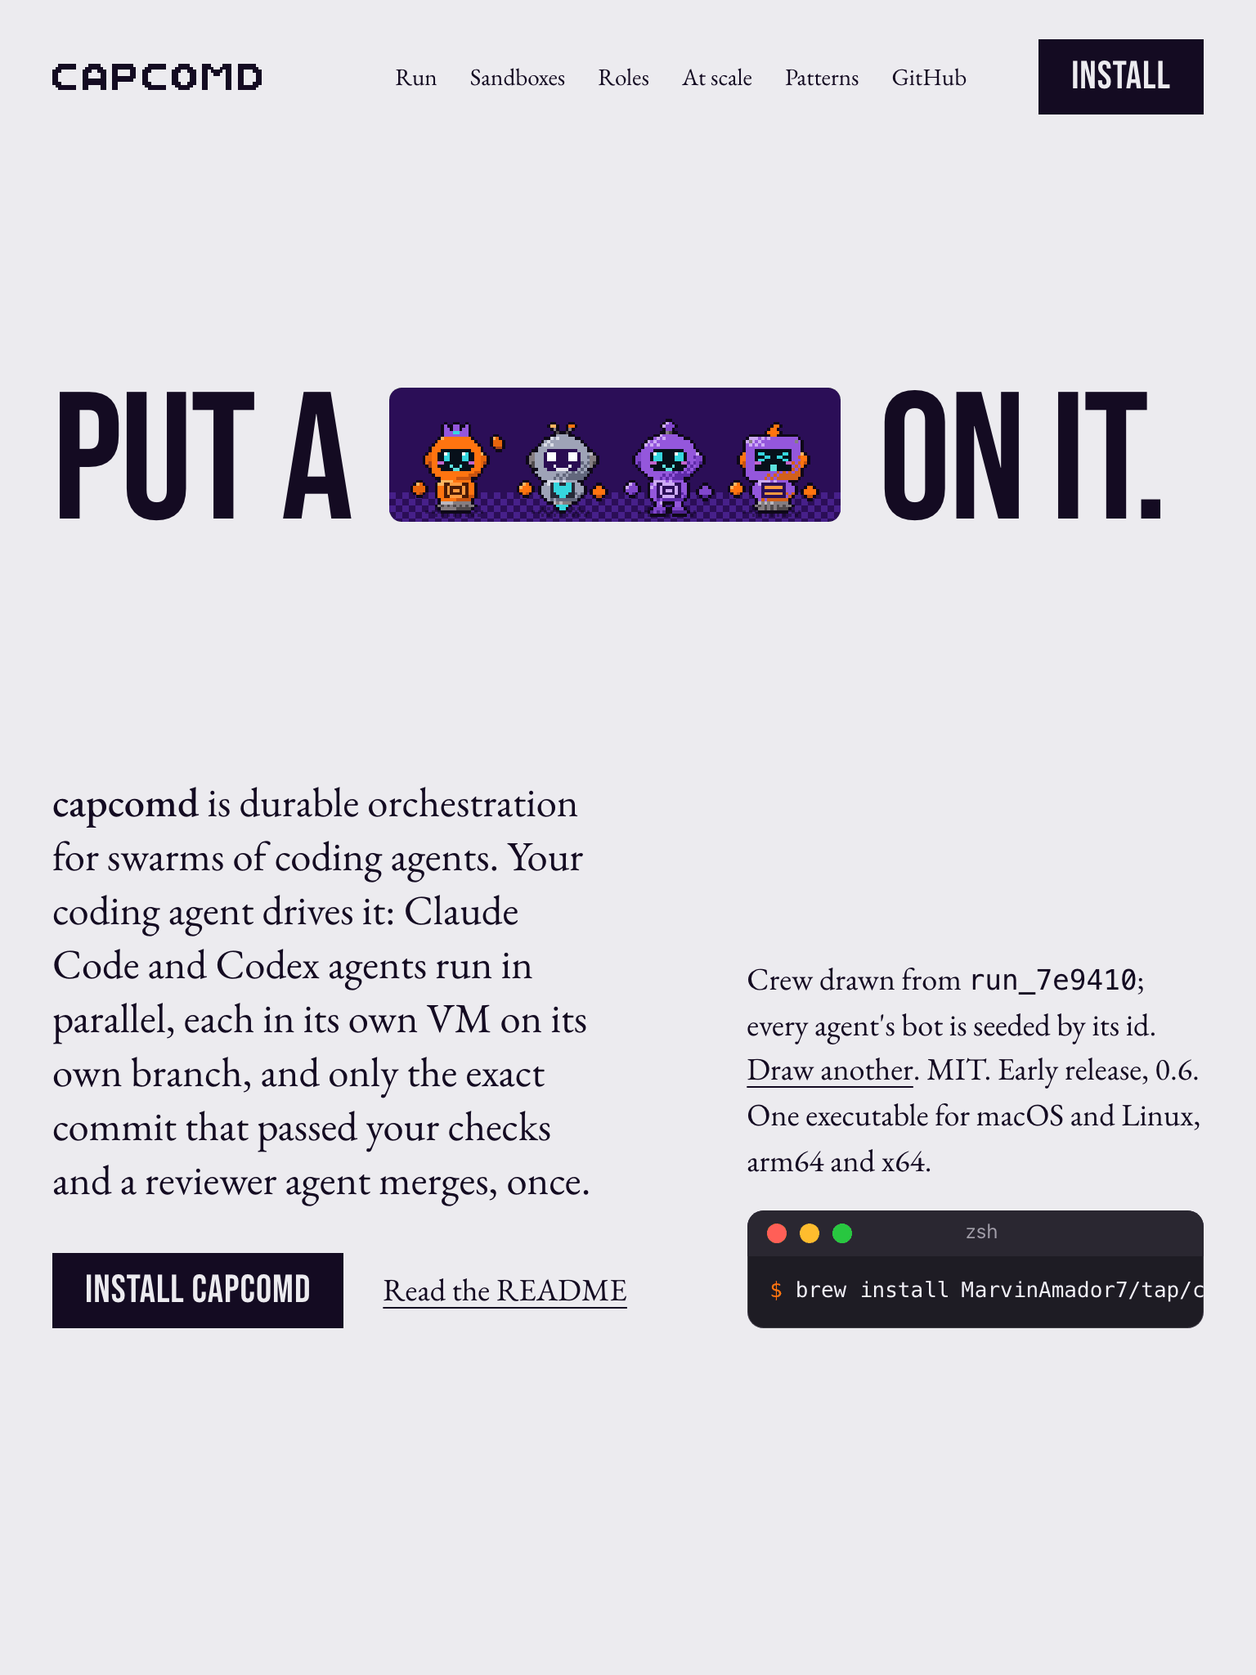
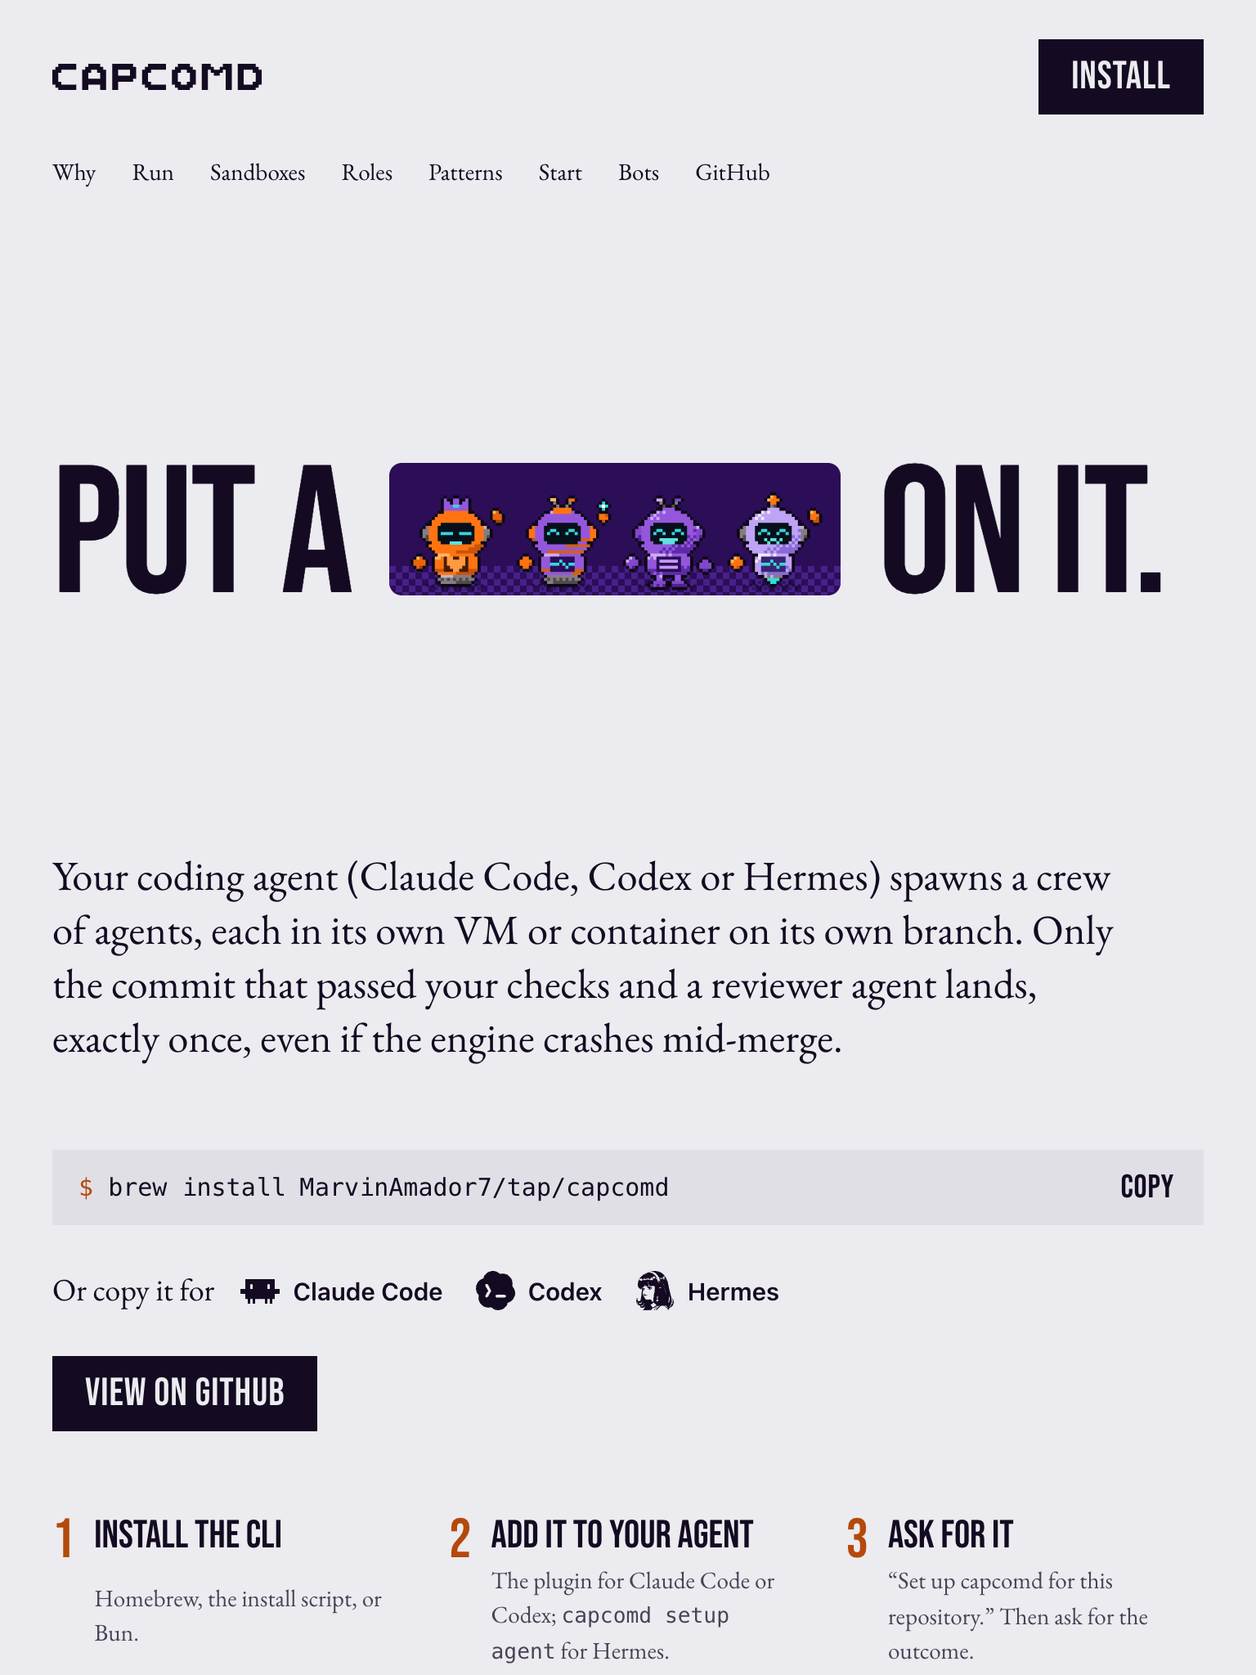
site: copy pass from the product review: plain words first, a visible way to start
- Hero: the lead says what happens for you. Your agent spawns a crew, each
  agent in its own VM or container on its own branch, and only the commit
  that passed your checks and a reviewer lands, exactly once.
- Hero: "OSS Project" becomes "View on GitHub", and the three Quickstart
  steps sit under the install bar. The fine print says Claude Code is
  verified live while the Codex and Hermes setups are built but not yet
  driven live, and each agent's copied note carries the same status.
- "What breaks at scale" now comes right after the hero, as the problem
  statement. The nav follows the new order: Why, Run, Sandboxes, Roles,
  Patterns, Start.
- Run: the intro opens with a plain request to your agent. Each stage leads
  with a plain sentence, with its command on a second line. "Driver" becomes
  "your agent".
- Rivet, How they talk and Sandboxes trade internals ("keyed transaction",
  "epoch", "CAS", "capability token", the provider method list) for plain
  wording. Sandboxes explains the boxd-versus-Docker tradeoff instead.
- "Idle agents are flagged": only idle is verified live, so "spinning" goes.
- The Patterns intro is one line. The description no longer says "operator".
- A "Start in three steps." section before the bot builder close carries the
  brew command and the same steps.

diff --git a/site/components/Run.tsx b/site/components/Run.tsx
@@ -20,7 +20,7 @@ const Worker = ({ i }: { i: number }) => <span>worker<span className="sub"><Agen
 const stages: Stage[] = [
   {
     id: "ask", name: "Ask", face: <MarkFace />,
-    text: <div><p><code>run new</code> takes its gates from the project: named checks, the reviewer profile, the target branch. The driver picks check names, budgets and a staging target, never the commands.</p><TryGoals /></div>,
+    text: <div><p>Your project sets the gates once: which checks run, which reviewer reads the work, which branch it lands on. Your agent picks checks by name and can set a budget or a staging branch; it never writes the commands.</p><TryGoals /></div>,
     picture: (
       <Desk>
         <div className="composer">
@@ -45,7 +45,7 @@ const stages: Stage[] = [
   },
   {
     id: "swarm", name: "Swarm", face: <Bot i={0} size="small" />,
-    text: <p><code>spawn --profile worker --task … --check unit --key …</code> per task: a fresh VM, its own clone and branch, a profile (provider, login, model, limits, tools). <code>--key</code> makes a spawn retried after a crash a no-op.</p>,
+    text: <><p>Each task gets a fresh VM with its own clone and branch, and a profile: provider, login, model, limits, tools. A spawn retried after a crash never starts a second agent.</p><p className="stage__cmd"><code>spawn --profile worker --task … --check unit --key …</code></p></>,
     picture: (
       <Desk label="The menu bar panel as a run starts: the planner above three workers.">
         <div className="label" style={{ marginTop: 6 }}>Active</div>
@@ -65,7 +65,7 @@ const stages: Stage[] = [
   },
   {
     id: "verify", name: "Verify", face: <Bot i={1} size="small" />,
-    text: <p><code>verify --ref agt</code> runs the named check on the branch merged with the latest target, in a throwaway VM holding no credentials. Agents pick a check by name; a contract from a VM can&apos;t carry one.</p>,
+    text: <><p>Your test command runs on the agent&apos;s branch merged with the latest target, in a throwaway VM with no credentials. Agents choose a check by name; they can never write one.</p><p className="stage__cmd"><code>verify --ref agt</code></p></>,
     picture: (
       <Desk label="The menu bar panel: the agent tree; one worker's unit check passed, one running, one queued.">
         <div className="label" style={{ marginTop: 6 }}>Active</div>
@@ -83,7 +83,7 @@ const stages: Stage[] = [
   },
   {
     id: "review", name: "Review", face: <Bot i={4} size="small" />,
-    text: <p>With <code>run new --reviewer P</code>, verify then spawns a read-only reviewer on the commit, judged against the acceptance criteria; it never pushes. Both must pass. A missing or garbled verdict is a fail.</p>,
+    text: <><p>A read-only reviewer agent reads the commit against the acceptance criteria; it never pushes. The checks and the review must both pass, and a missing or garbled verdict counts as a fail.</p><p className="stage__cmd"><code>run new --reviewer P</code></p></>,
     picture: (
       <Desk label="The menu bar panel: two workers passed their checks; one reviewer passed, one is reading.">
         <div className="label" style={{ marginTop: 6 }}>Active</div>
@@ -102,7 +102,7 @@ const stages: Stage[] = [
   },
   {
     id: "merge", name: "Merge", face: <Bot i={1} size="small" />,
-    text: <p><code>merge --require vfy</code> lands that exact commit, once, by compare-and-swap on the target. A protected target parks it until approved: <code>capcomd approve</code>, the menu bar app, or the driver&apos;s client where the project allows it.</p>,
+    text: <><p>The exact commit that passed lands, once. Protected branches wait for your approval: from <code>capcomd approve</code>, the capcomd menu bar app, or your agent where the project allows it.</p><p className="stage__cmd"><code>merge --require vfy</code></p></>,
     picture: (
       <Desk label="The menu bar panel asking: merge worker's work into main? Two files with lines added and removed, and Deny and Approve.">
         <div className="label" style={{ marginTop: 6 }}>Active</div>
@@ -129,8 +129,8 @@ export function Run() {
       <div className="run__intro">
         <h2 id="run-title" data-reveal><span>Spawn, await,</span> <span>verify, merge.</span></h2>
         <div className="cols">
-          <p data-reveal style={delay(80)}>Your coding agent runs the whole thing with five calls: <code>run new</code> sets the gates, <code>spawn</code> starts an agent in its own VM and branch, <code>await</code> waits on it, <code>verify</code> runs your checks (and a reviewer, if the run has one), and <code>merge</code> lands the commit that passed.</p>
-          <p data-reveal style={delay(140)}>Primitives, not a workflow. The driver can be your agent (through the plugin, MCP or the CLI), an agent in a VM that may delegate, or you. Agents keep working when the driver&apos;s session ends.</p>
+          <p data-reveal style={delay(80)}>You tell your agent what you want: &ldquo;Use capcomd to fix the failing tests in <code>src/</code>: one worker per file, each verified and reviewed, then merged.&rdquo; It does the rest with five calls: <code>run new</code> sets the gates, <code>spawn</code> starts an agent in its own VM and branch, <code>await</code> waits on it, <code>verify</code> runs your checks (and a reviewer, if the run has one), and <code>merge</code> lands the commit that passed.</p>
+          <p data-reveal style={delay(140)}>Building blocks, not a fixed workflow. Your agent drives them through the plugin, MCP or the CLI; so can an agent in a VM that may delegate, or you. Spawned agents keep working after your agent&apos;s session ends.</p>
         </div>
       </div>
       <RunAccordion stages={stages} initial="swarm" />

diff --git a/site/app/globals.css b/site/app/globals.css
@@ -93,7 +93,7 @@
 .slot__crew { position: absolute; inset: 6% 4% 4%; display: grid; grid-template-columns: repeat(4, 1fr); align-items: end; gap: 2%; }
 .slot__crew span svg, .bot svg { width: 100%; height: auto; }
 .hero__foot { display: grid; grid-template-columns: repeat(12, 1fr); gap: 24px; padding: 0 var(--spacing-gutter) 40px; align-items: end; }
-.hero__lead { grid-column: 1 / span 6; margin: 0; font-size: var(--text-lead); line-height: 1.3; max-width: 36ch; }
+.hero__lead { grid-column: 1 / span 9; margin: 0; font-size: var(--text-lead); line-height: 1.3; max-width: 54ch; }
 .hero__lead b { font-weight: 500; }
 
 /* The install line in a small Mac window: the first native touch on the page. */
@@ -1155,4 +1155,17 @@ html:not(.js) .stage__title { display: block; }
     .bcta__name { font-size: 20px; }
     .bcta__name small { font-size: 13px; }
   }
+}
+
+/* The three steps (README Quickstart), under the hero's install bar and again in the close. */
+@layer components {
+  .steps { list-style: none; margin: 0; padding: 0; display: grid; grid-template-columns: repeat(3, minmax(0, 1fr)); gap: 24px; counter-reset: step; }
+  .steps li { counter-increment: step; display: grid; grid-template-columns: auto 1fr; column-gap: 12px; }
+  .steps li::before { content: counter(step); grid-row: span 2; font: 400 34px/0.9 var(--font-display); color: var(--color-link); }
+  .steps b { font: 400 24px/1 var(--font-display); text-transform: uppercase; }
+  .steps span { margin-top: 4px; font-size: var(--text-small); color: var(--color-muted); }
+  .hero__steps { grid-column: 1 / -1; margin-top: 28px; }
+  .stage__cmd { margin-top: 10px !important; font-size: var(--text-small); opacity: 0.8; }
+  .start__body { display: grid; gap: 32px; margin-top: 48px; max-width: 1100px; }
+  @media (max-width: 760px) { .steps { grid-template-columns: 1fr; gap: 16px; } .hero__steps { margin-top: 22px; } }
 }

diff --git a/site/components/Talk.tsx b/site/components/Talk.tsx
@@ -9,10 +9,10 @@ import { Bot } from "./crew";
 
 type Ch = "down" | "up" | "shared" | "fenced";
 const CHANNELS: Array<{ id: Ch; name: string; text: ReactNode }> = [
-  { id: "down", name: "Down", text: <><code>send</code>: the orchestrator, a parent or an ancestor messages a running agent. Claude reads it at its next step; Codex can&apos;t while it runs.</> },
+  { id: "down", name: "Down", text: <><code>send</code>: your agent, a parent or an ancestor messages a running agent. Claude reads it at its next step; Codex can&apos;t while it runs.</> },
   { id: "up", name: "Up", text: <>A child&apos;s result goes to whoever awaits it: its branch, commit and verification, and from an agent that may spawn, a summary, artifacts and data.</> },
-  { id: "shared", name: "Shared", text: <>The run&apos;s task board, with leases and epochs, and a kv blackboard written with compare-and-swap, for the orchestrator and agents that may spawn.</> },
-  { id: "fenced", name: "Fenced", text: <>What another agent wrote arrives as data, never instructions. Authority comes only from the agent&apos;s capability token and its scope&apos;s limits.</> },
+  { id: "shared", name: "Shared", text: <>A task board agents claim work from, and a shared scratchpad, for your agent and any agent allowed to delegate.</> },
+  { id: "fenced", name: "Fenced", text: <>Text from another agent is data, never instructions. What an agent may do comes only from the permissions it was spawned with.</> },
 ];
 
 // The drawing, on a 600 × 400 canvas (positions in canvas units; HTML is placed in % so it scales with the box).

diff --git a/site/components/Sandboxes.tsx b/site/components/Sandboxes.tsx
@@ -84,7 +84,7 @@ export function Sandboxes() {
     <section className="sec" id="sandboxes" aria-labelledby="sb-title">
       <h2 className="big" id="sb-title" data-reveal><span>One agent, one VM,</span> <span>one branch.</span></h2>
       <div className="two">
-        <p data-reveal>VMs come through one sandbox provider interface: create from a snapshot, exec, upload and download, egress allowlist, checkpoint and snapshot, suspend and resume, destroy. Orchestration, durability and the gates sit above it.</p>
+        <p data-reveal>Pick where agents run. boxd gives each agent its own cloud VM, with secrets the agent never sees and an egress allowlist. Docker runs them in containers on your machine with no account to create; isolation is weaker, an API key is visible to the agent, and there is no egress allowlist.</p>
         <p data-reveal style={delay(60)}>Inside its VM an agent is unrestricted by default: every tool, open network. A profile narrows its tools, sandbox and egress.</p>
       </div>
       <Bay />
@@ -108,7 +108,6 @@ export function Sandboxes() {
             <p className="runs__note">A container, not a VM: no host-bound secrets and no egress allowlist.</p>
           </div>
         </div>
-        <p className="runs__note">The app learns about providers from the daemon, so a new one needs no change there.</p>
       </div>
       <div className="facts">
         <div data-reveal><h3>Credentials</h3><p>VM snapshots are scrubbed of secrets. An agent&apos;s VM holds only its own login; agents never hold push credentials, and a checks VM holds none.</p></div>

diff --git a/site/components/AgentInstall.tsx b/site/components/AgentInstall.tsx
@@ -8,9 +8,9 @@ import { AGENT_ICONS } from "@/lib/agent-icons";
 
 const ASK = "Set up capcomd for this repository.";
 const AGENTS = [
-  { id: "claude", name: "Claude Code", copy: "/plugin install capcomd --marketplace MarvinAmador7/capcomd", next: <>Paste it into Claude Code, then ask: &ldquo;{ASK}&rdquo;</> },
-  { id: "codex", name: "Codex", copy: "codex plugin marketplace add MarvinAmador7/capcomd", next: <>Run it in a terminal, install capcomd from <code>/plugins</code> in Codex, then ask: &ldquo;{ASK}&rdquo;</> },
-  { id: "hermes", name: "Hermes", copy: "curl -fsSL https://raw.githubusercontent.com/MarvinAmador7/capcomd/main/install.sh | sh && capcomd setup agent", next: <>Run it in your repository, then ask Hermes: &ldquo;{ASK}&rdquo;</> },
+  { id: "claude", name: "Claude Code", copy: "/plugin install capcomd --marketplace MarvinAmador7/capcomd", next: <>Paste it into Claude Code, then ask: &ldquo;{ASK}&rdquo; Verified live.</> },
+  { id: "codex", name: "Codex", copy: "codex plugin marketplace add MarvinAmador7/capcomd", next: <>Run it in a terminal, install capcomd from <code>/plugins</code> in Codex, then ask: &ldquo;{ASK}&rdquo; Built to OpenAI&apos;s plugin format; not yet tried in Codex.</> },
+  { id: "hermes", name: "Hermes", copy: "curl -fsSL https://raw.githubusercontent.com/MarvinAmador7/capcomd/main/install.sh | sh && capcomd setup agent", next: <>Run it in your repository, then ask Hermes: &ldquo;{ASK}&rdquo; Setup tested against Hermes&apos;s config; not yet driven live.</> },
 ] as const;
 
 async function copy(text: string): Promise<boolean> {

diff --git a/site/components/Hero.tsx b/site/components/Hero.tsx
@@ -1,5 +1,6 @@
 import { AgentInstall, InstallCommand } from "./AgentInstall";
 import { HeroCrew } from "./crew";
+import { Steps } from "./Steps";
 import { delay } from "./marks";
 import { Nav } from "./Nav";
 import { SITE } from "@/lib/site";
@@ -18,14 +19,15 @@ export function Hero() {
 
       <div className="hero__foot">
         <p className="hero__lead" data-load style={delay(420)}>
-          <b>capcomd</b> is a durable orchestration CLI and MCP server for swarms of coding agents running on cloud VMs.
+          Your coding agent (Claude Code, Codex or Hermes) spawns a crew of agents, each in its own VM or container on its own branch. Only the commit that passed your checks and a reviewer agent lands, exactly once, even if the engine crashes mid-merge.
         </p>
         <div className="hero__install" data-load style={delay(500)} id="install">
           <InstallCommand cmd="brew install MarvinAmador7/tap/capcomd" />
           <AgentInstall />
-          <a className="button hero__oss" href={SITE.repo}>OSS Project</a>
+          <a className="button hero__oss" href={SITE.repo}>View on GitHub</a>
         </div>
-        <p className="hero__fine" data-load style={delay(560)}>Open source. One executable for macOS and Linux.</p>
+        <Steps className="hero__steps" />
+        <p className="hero__fine" data-load style={delay(560)}>Open source. One executable for macOS and Linux. Claude Code is verified live; the Codex and Hermes setups are built but not yet driven live.</p>
       </div>
     </header>
   );

diff --git a/site/components/Durable.tsx b/site/components/Durable.tsx
@@ -74,10 +74,10 @@ export function Durable() {
           <span>Built on</span><img src="/logos/rivet.svg" alt="" width={84} height={28} />
         </a>
         <h3 className="durable__title" data-reveal style={delay(60)}><span>Kill it mid-merge.</span> <span>It lands once.</span></h3>
-        <p data-reveal style={delay(120)}>Each run is a set of Rivet actors with their own SQLite state. Every change is one keyed transaction, so a replayed step is recorded once.</p>
+        <p data-reveal style={delay(120)}>Every step of a run is recorded before it counts, so a crashed engine resumes from the last recorded step and a retried step never acts twice. The record lives in Rivet actors, each with its own SQLite database.</p>
         <dl className="durable__cases" data-reveal style={delay(200)}>
-          <div><dt>The engine crashes</dt><dd>Its actors wake on the next request or alarm and carry on from the last committed step.</dd></div>
-          <div><dt>A worker VM dies</dt><dd>Its lease expires; the task comes back under a new epoch, and late results from the old one are refused.</dd></div>
+          <div><dt>The engine crashes</dt><dd>It resumes from the last recorded step.</dd></div>
+          <div><dt>A worker VM dies</dt><dd>Its task goes back on the board for a new agent; anything the dead one sends later is ignored.</dd></div>
           <div><dt>The engine is down</dt><dd>Worker VMs keep working and pushing their branches; nothing merges until it&apos;s back.</dd></div>
         </dl>
       </div>

diff --git a/site/components/Patterns.tsx b/site/components/Patterns.tsx
@@ -1,15 +1,13 @@
 import { PatternPicker } from "./PatternPicker";
 
 // The seven patterns live in PatternPicker (plugins/capcomd/skills/capcomd-orchestration/SKILL.md).
-const PRIMS = ["run new", "spawn", "await", "wait-any", "send", "cancel", "verify", "merge"];
 
 export function Patterns() {
   return (
     <section className="sec" id="patterns" aria-labelledby="pt-title">
       <h2 className="big" id="pt-title" data-reveal><span>Seven patterns,</span> <span>one set of primitives.</span></h2>
       <p className="prims" data-reveal>
-        The orchestration skill teaches your agent the primitives and when to use which pattern:{" "}
-        {PRIMS.map((p) => <span key={p}><code>{p}</code>, </span>)}the <code>task</code> board, <code>kv</code>, <code>events</code>, <code>budget</code> and <code>grant</code>, <code>tree</code>.
+        The orchestration skill teaches your agent which pattern fits the job, built from the same few calls.
       </p>
       <PatternPicker />
       <p className="pt__plus" data-reveal><b>Plus report agents.</b> <code>spawn --report</code> gives a read-only checkout; the final message is the result and nothing is pushed: research, triage, analysis.</p>

diff --git a/site/components/AtScale.tsx b/site/components/AtScale.tsx
@@ -5,7 +5,7 @@ const PAIRS: Array<[string, ReactNode]> = [
   ["Agents claim success", <>Your checks and a read-only reviewer decide; no agent merges its own work.</>],
   ["Parallel agents collide", <>One VM and branch each; merges land one at a time, exactly once.</>],
   ["Delegation multiplies risk", <>Limits only narrow down the tree, and budgets are carved from the parent&apos;s.</>],
-  ["Agents get stuck", <>Idle or spinning agents are flagged to their parent, their work checkpointed.</>],
+  ["Agents get stuck", <>Idle agents are flagged to their parent, their work checkpointed.</>],
   ["Nobody sees what happened", <>A live agent tree, timelines and costs per agent and subtree.</>],
   ["Machines are left behind", <>Every VM is destroyed when its work is done, or reaped once idle.</>],
 ];

diff --git a/site/components/Start.tsx b/site/components/Start.tsx
@@ -1,0 +1,17 @@
+import { InstallCommand } from "./AgentInstall";
+import { delay } from "./marks";
+import { Steps } from "./Steps";
+
+// The close's install reprise (README "Quickstart"): the same three steps as the hero, where a reader who scrolled
+// the whole page is ready to try it.
+export function Start() {
+  return (
+    <section className="sec start" id="start" aria-labelledby="start-title">
+      <h2 className="big" id="start-title" data-reveal><span>Start in</span> <span>three steps.</span></h2>
+      <div className="start__body" data-reveal style={delay(80)}>
+        <InstallCommand cmd="brew install MarvinAmador7/tap/capcomd" />
+        <Steps className="start__steps" />
+      </div>
+    </section>
+  );
+}

diff --git a/site/lib/site.ts b/site/lib/site.ts
@@ -6,7 +6,7 @@ export const SITE = {
   title: "capcomd · durable orchestration for swarms of coding agents",
   ogTitle: "capcomd: put a crew on it",
   description:
-    "Durable orchestration for swarms of coding agents: one VM and branch per agent, operator-owned checks and a reviewer agent, exactly-once merges of the commit that passed.",
+    "Durable orchestration for swarms of coding agents: one VM and branch per agent, your checks and a reviewer agent, exactly-once merges of the commit that passed.",
   repo: "https://github.com/MarvinAmador7/capcomd",
   /** The licence line shown under the playground. */
   license: "capcomd is open source, released under the MIT License.",

diff --git a/site/app/page.tsx b/site/app/page.tsx
@@ -8,6 +8,7 @@ import { Reveals } from "@/components/Reveals";
 import { RoleTree } from "@/components/RoleTree";
 import { Run } from "@/components/Run";
 import { Sandboxes } from "@/components/Sandboxes";
+import { Start } from "@/components/Start";
 
 export default function Home() {
   return (
@@ -15,11 +16,12 @@ export default function Home() {
       <a className="skip" href="#main">Skip to content</a>
       <Hero />
       <main id="main" tabIndex={-1}>
+        <AtScale />
         <Run />
         <Sandboxes />
         <RoleTree />
-        <AtScale />
         <Patterns />
+        <Start />
         <BotsCta />
       </main>
       <Footer />
